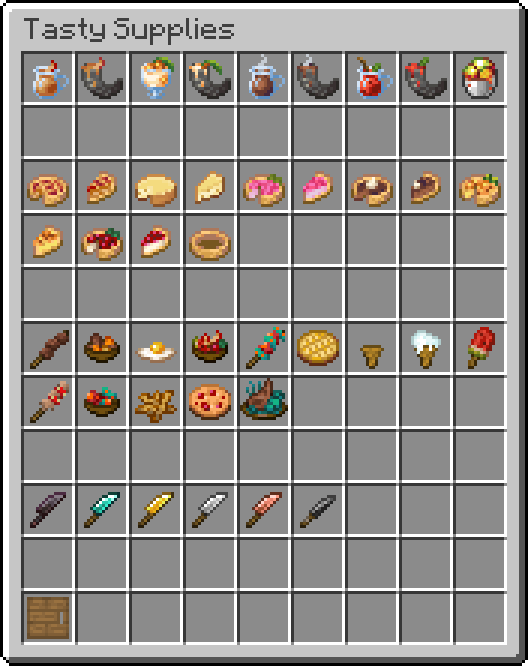
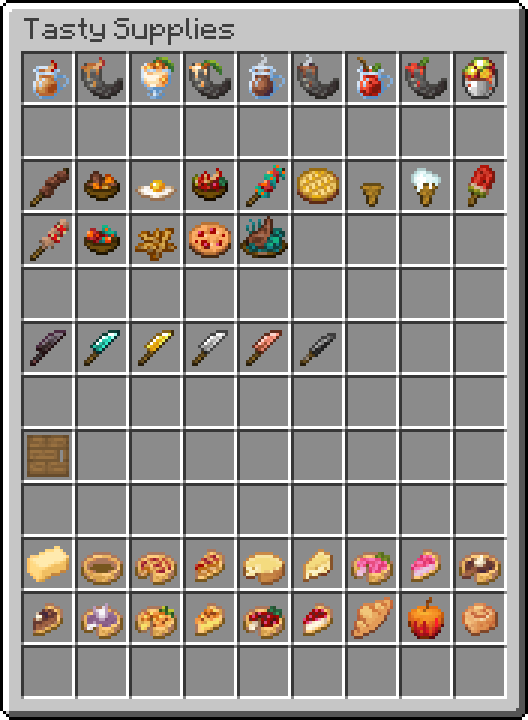
Refactor pie recipes to sweets, add new items and aliases
- Add Croissant recipe
- Add Chorus Pie recipe
- Add Chorus Pie Slice recipe
- Add Honeyed Apple recipe
- Add Sweet Roll recipe

diff --git a/tasty_supplies/core/recipes/sweets.py b/tasty_supplies/core/recipes/sweets.py
@@ -1,27 +1,54 @@
 from .. import (
     TSContext,
     Item,
+    ShapelessRecipe,
     ShapedRecipe,
-    AutoBakeRecipe,
+    PotionResult,
     CuttingBoardRecipe,
-    FoodResult,
+    AutoBakeRecipe,
     Effect,
     Category,
+    FoodResult,
+    aliases,
 )
 
 
-class PieCategory(Category):
+class Sweets(Category):
     def __init__(self):
-        super().__init__("Pie")
+        super().__init__("Sweets")
 
     def generate(self, ctx: TSContext):
+        ## Butter
+
+        Item(
+            "butter",
+            ShapelessRecipe(
+                ingredients=["milk_bucket"],
+                result=FoodResult(
+                    nutrition=2, saturation=1.2, consume_effect_type="clear_all_effects"
+                ),
+            ),
+            base_item=aliases.BUTTER,
+        ).register(ctx)
+
+        ## Pie Crust
+
+        Item(
+            "pie_crust",
+            ShapedRecipe(
+                key={"W": "minecraft:wheat", "B": aliases.BUTTER},
+                pattern=["WBW", " W "],
+            ),
+            base_item=aliases.PIE_CRUST,
+        ).register(ctx)
+
         ## Apple Pie
 
         Item(
             "apple_pie",
             ShapedRecipe(
-                key={"W": "wheat", "A": "apple", "S": "sugar", "C": "bread"},
-                pattern=["WWW", "AAA", "SCS"],
+                key={"W": "wheat", "A": "apple", "S": "sugar", "B": aliases.PIE_CRUST},
+                pattern=["WWW", "AAA", "SBS"],
                 result=FoodResult(nutrition=8, saturation=6),
             ),
             base_item="bread",
@@ -52,7 +79,7 @@ class PieCategory(Category):
                     "C": "minecraft:cherry_leaves",
                     "M": "minecraft:milk_bucket",
                     "H": "minecraft:honeycomb",
-                    "B": "minecraft:bread",
+                    "B": aliases.PIE_CRUST,
                 },
                 pattern=["CCC", "MMM", "HBH"],
                 result=FoodResult(
@@ -74,7 +101,7 @@ class PieCategory(Category):
                     "C": "minecraft:cocoa_beans",
                     "M": "minecraft:milk_bucket",
                     "S": "minecraft:sugar",
-                    "B": "minecraft:bread",
+                    "B": aliases.PIE_CRUST,
                 },
                 pattern=["CCC", "MMM", "SBS"],
                 result=FoodResult(
@@ -85,6 +112,32 @@ class PieCategory(Category):
 
         Item("chocolate_pie_slice", CuttingBoardRecipe("chocolate_pie")).register(ctx)
 
+        ## Chorus Pie
+
+        Item(
+            "chorus_pie",
+            ShapedRecipe(
+                key={
+                    "C": "minecraft:chorus_fruit",
+                    "M": "minecraft:milk_bucket",
+                    "S": "minecraft:sugar",
+                    "P": aliases.PIE_CRUST,
+                },
+                pattern=["CCC", "SSS", "MPM"],
+                result=FoodResult(
+                    nutrition=8,
+                    saturation=6,
+                    consume_effect_type="teleport_randomly",
+                    consume_effect_diameter=32,
+                    extra_components={
+                        "use_cooldown": {"seconds": 2.0, "cooldown_group": "chorus"}
+                    },
+                ),
+            ),
+        ).register(ctx)
+
+        Item("chorus_pie", CuttingBoardRecipe("chorus_pie")).register(ctx)
+
         ## Glow Berry Pie
 
         Item(
@@ -94,9 +147,9 @@ class PieCategory(Category):
                     "G": "minecraft:glow_berries",
                     "M": "minecraft:milk_bucket",
                     "S": "minecraft:sugar",
-                    "C": "minecraft:bread",
+                    "B": aliases.PIE_CRUST,
                 },
-                pattern=["GGG", "SSS", "MCM"],
+                pattern=["GGG", "SSS", "MBM"],
                 result=FoodResult(
                     nutrition=8, saturation=6, effects=[Effect("glowing", 3600)]
                 ),
@@ -113,9 +166,9 @@ class PieCategory(Category):
                 key={
                     "S": "minecraft:sweet_berries",
                     "M": "minecraft:milk_bucket",
-                    "C": "minecraft:bread",
+                    "B": aliases.PIE_CRUST,
                 },
-                pattern=["SSS", "SSS", "MCM"],
+                pattern=["SSS", "SSS", "MBM"],
                 result=FoodResult(
                     nutrition=8, saturation=6, effects=[Effect("speed", 3600)]
                 ),
@@ -126,10 +179,45 @@ class PieCategory(Category):
             "sweet_berry_cheesecake_slice", CuttingBoardRecipe("sweet_berry_cheesecake")
         ).register(ctx)
 
-        ## Pie Crust
+        ## Croissant
 
         Item(
-            "pie_crust",
-            ShapedRecipe(key={"W": "minecraft:wheat"}, pattern=["W W", " W "]),
-            base_item="bread",
+            "croissant",
+            ShapedRecipe(
+                key={
+                    "W": "minecraft:wheat",
+                    "B": aliases.BUTTER,
+                    "S": "minecraft:sugar",
+                },
+                pattern=["WBS", "WBS"],
+                result=FoodResult(nutrition=6, saturation=3.4),
+            ),
+        ).register(ctx)
+
+        ## Honeyed Apple
+
+        Item(
+            "honeyed_apple",
+            ShapelessRecipe(
+                ingredients=[
+                    "minecraft:apple",
+                    "minecraft:honey_bottle",
+                ],
+                result=FoodResult(nutrition=6, saturation=8.6),
+            ),
+        ).register(ctx)
+
+        ## Sweet Roll
+
+        Item(
+            "sweet_roll",
+            ShapelessRecipe(
+                ingredients=[
+                    "minecraft:wheat",
+                    "minecraft:sugar",
+                    "#minecraft:eggs",
+                    aliases.BUTTER,
+                ],
+                result=FoodResult(nutrition=8, saturation=12.8),
+            ),
         ).register(ctx)

diff --git a/tasty_supplies/core/models/result.py b/tasty_supplies/core/models/result.py
@@ -42,6 +42,7 @@ class Result:
                 "custom_name": {
                     "text": item_name.replace("_", " ").title(),
                     "italic": False,
+                    "color": "white",
                 },
                 "custom_model_data": self._get_custom_model_data(item_name),
                 "max_stack_size": self.max_stack_size,
@@ -59,6 +60,8 @@ class FoodResult(Result):
         saturation: float = 0.0,
         can_always_eat: bool = False,
         effects: List[Effect] = [],
+        consume_effect_type: str = "apply_effects",
+        consume_effect_diameter: float = 12.0,
         extra_components: dict = {},
     ):
         extra_components["food"] = {
@@ -70,8 +73,9 @@ class FoodResult(Result):
         extra_components["consumable"] = {
             "on_consume_effects": [
                 {
-                    "type": "apply_effects",
+                    "type": consume_effect_type,
                     "effects": [effect._to_json() for effect in effects],
+                    "diameter": consume_effect_diameter,
                 }
             ],
         }

diff --git a/tasty_supplies/core/models/recipe.py b/tasty_supplies/core/models/recipe.py
@@ -195,5 +195,8 @@ class CuttingBoardRecipe(_Recipe):
         self.ingredient = ingredient
         super().__init__("none", Result(), suffix)
 
-    def _to_json(self) -> dict:
+    def _register(self, item_name: str, base_item: str, ctx: TSContext) -> dict:
         pass
+
+    def _to_json(self) -> dict:
+        return {}

diff --git a/tasty_supplies/generator.py b/tasty_supplies/generator.py
@@ -5,10 +5,10 @@ def generate(ctx: TSContext):
     log.info("Generating items...")
 
     DrinkCategory().register(ctx)
-    PieCategory().register(ctx)
     MealCategory().register(ctx)
     KnifeCategory().register(ctx)
     WorksationCategory().register(ctx)
+    Sweets().register(ctx)
 
     ctx._create_item_showcase()
 

diff --git a/tasty_supplies/core/recipes/__init__.py b/tasty_supplies/core/recipes/__init__.py
@@ -1,5 +1,5 @@
 from .drink_recipes import DrinkCategory
 from .knife_recipes import KnifeCategory
 from .meal_recipes import MealCategory
-from .pie_recipes import PieCategory
 from .workstation_recipes import WorksationCategory
+from .sweets import Sweets

diff --git a/tasty_supplies/core/__init__.py b/tasty_supplies/core/__init__.py
@@ -1,3 +1,4 @@
+from .aliases import *
 from .logger import get_logger, log
 from .models import *
 from .recipes import *

diff --git a/tasty_supplies/core/aliases.py b/tasty_supplies/core/aliases.py
@@ -1,0 +1,2 @@
+BUTTER = "poisonous_potato"
+PIE_CRUST = "angler_pottery_sherd"
